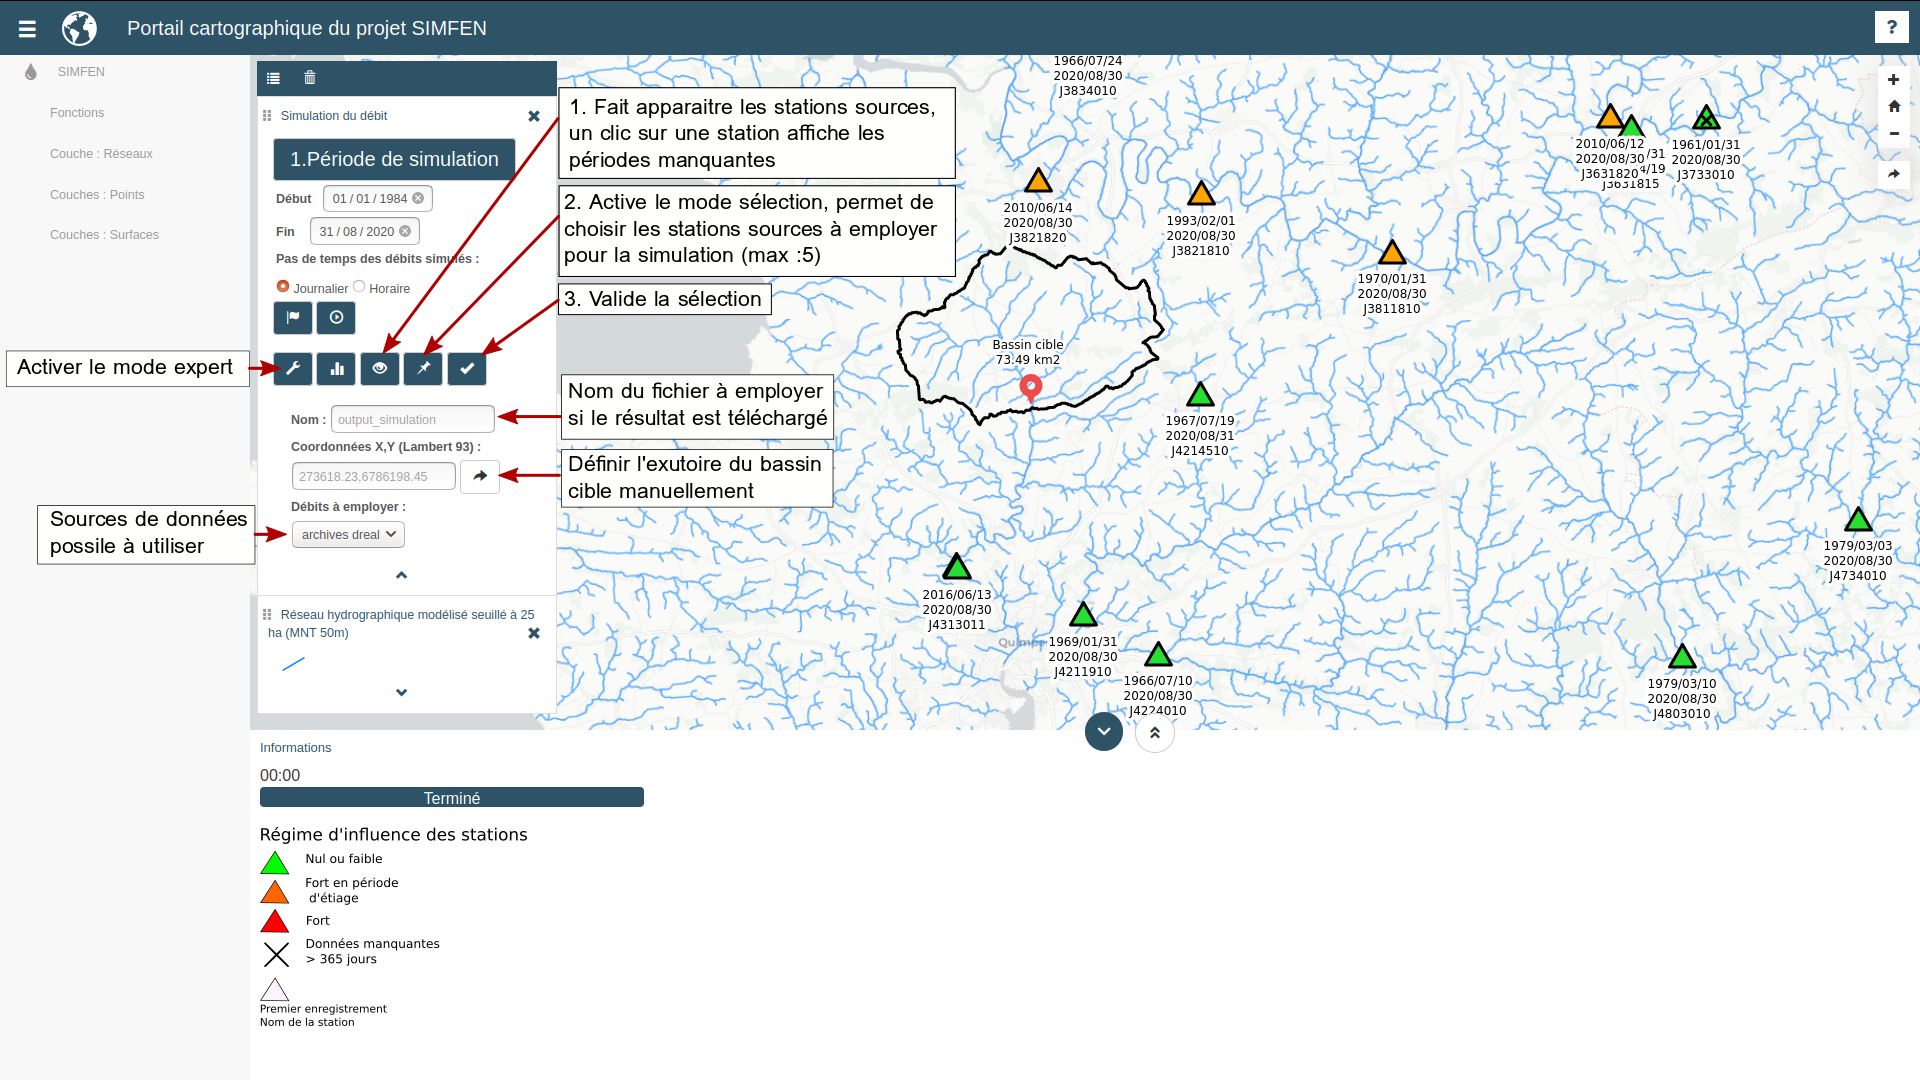
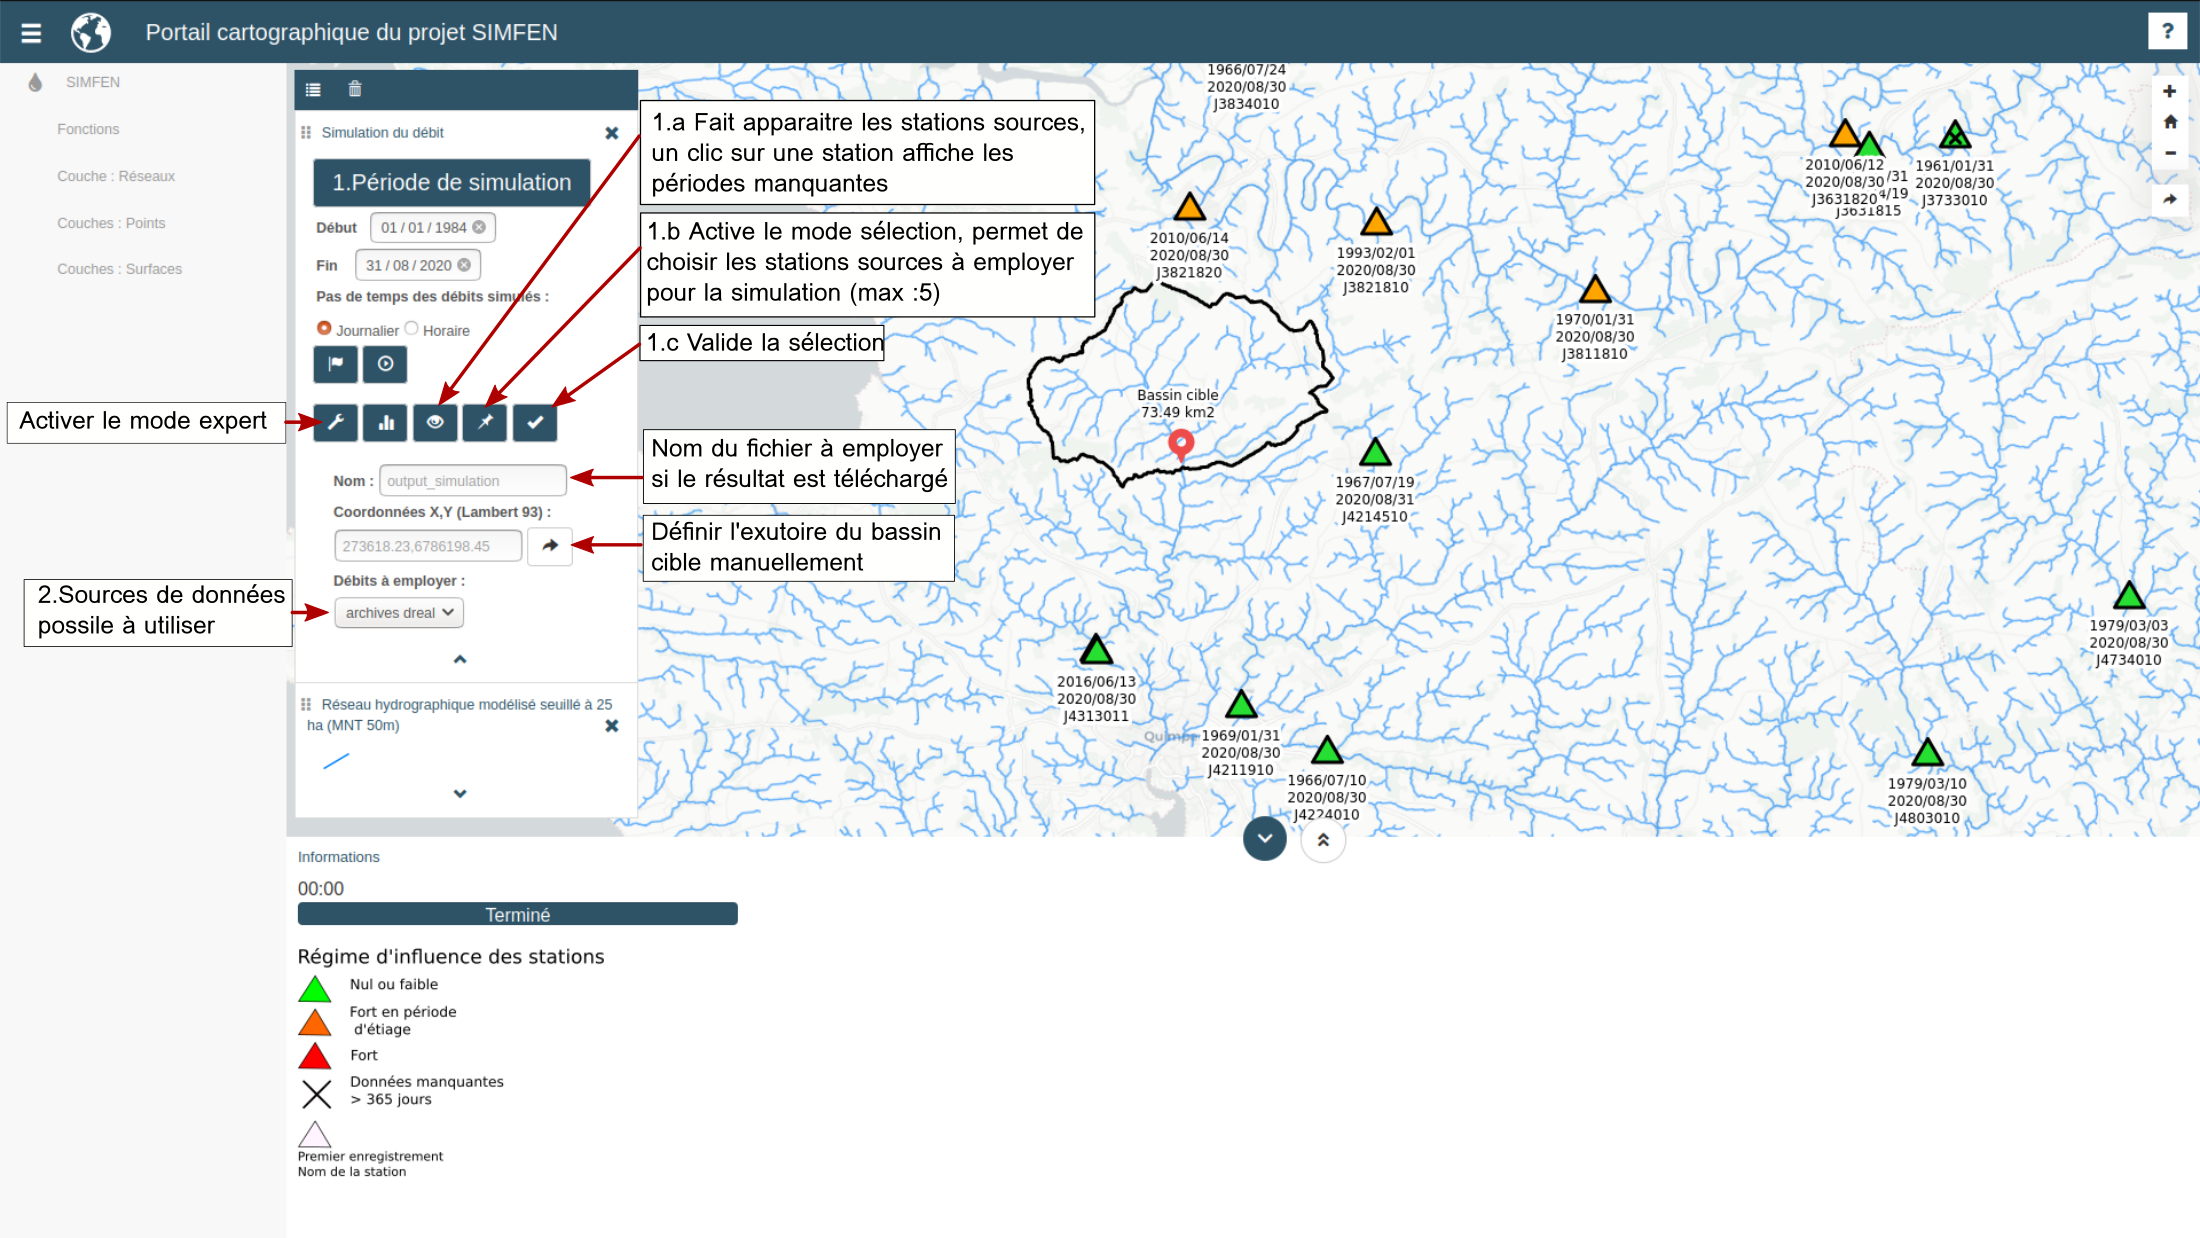
correction deltaT

diff --git a/customcontrols/waterFlowSimulation.html b/customcontrols/waterFlowSimulation.html
@@ -49,7 +49,7 @@
                         <input type="radio" id="journalierWaterFlowSimulation" name="deltaTWaterFlowSimulation"
                             value=1440 checked="checked">
                             <span i18n="waterFlowSimulationDeltaT1">Journalier</span>
-                        <input type="radio" id="horaireWaterFlowSimulation" name="deltaTWaterFlowSimulation"  value=60>
+                        <input type="radio" id="horaireWaterFlowSimulation" name="deltaTWaterFlowSimulation"  value=60 disabled>
                             <span i18n="waterFlowSimulationDeltaT2"> Horaire</span>
                             <!--<input type="radio" id="minute" name="deltaT" value=1>-->
                     </td>
@@ -195,5 +195,23 @@ $(document).ready(function(){
             expand=true
         }
     });
+});
+
+var source = document.getElementById("selectProjectInversion");
+
+source.addEventListener('input', function (evt) {
+    journalier=document.getElementById("journalierWaterFlowSimulation");
+    horaire=document.getElementById("horaireWaterFlowSimulation");
+    if (source.value=="hub_eau"){
+        journalier.disabled = true
+        journalier.checked = false
+        horaire.disabled = false
+        horaire.checked = true
+    } else {
+        journalier.disabled = false
+        journalier.checked = true
+        horaire.disabled = true
+        horaire.checked = false
+    }
 });
 </script>
